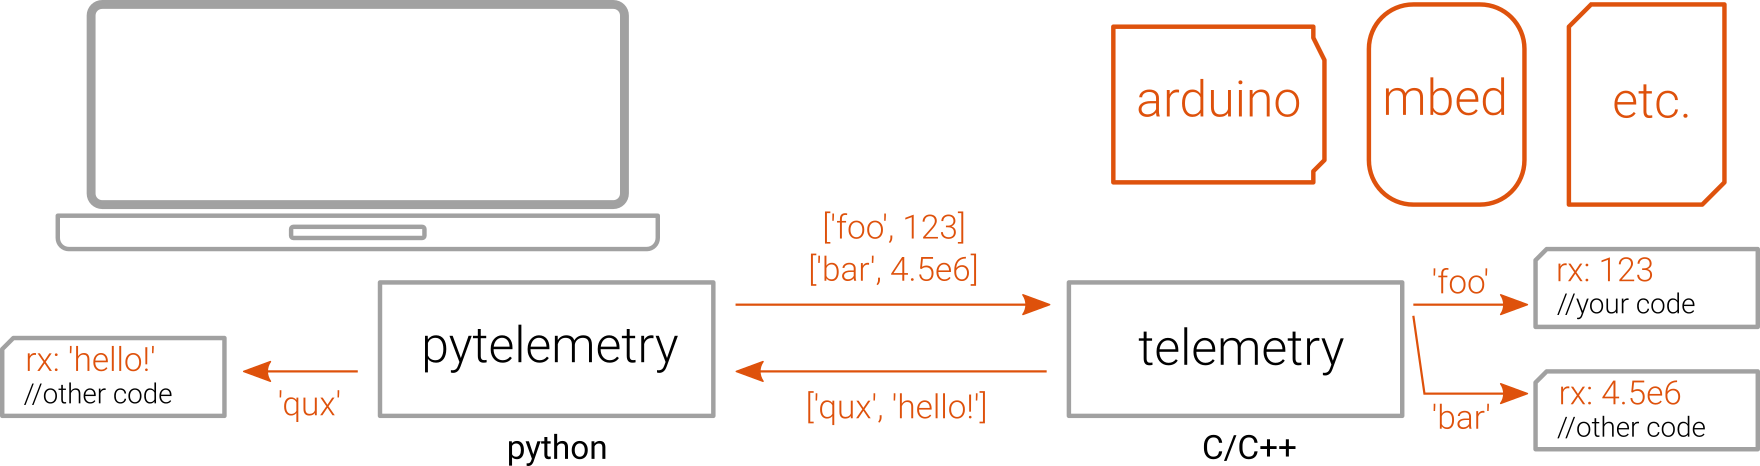
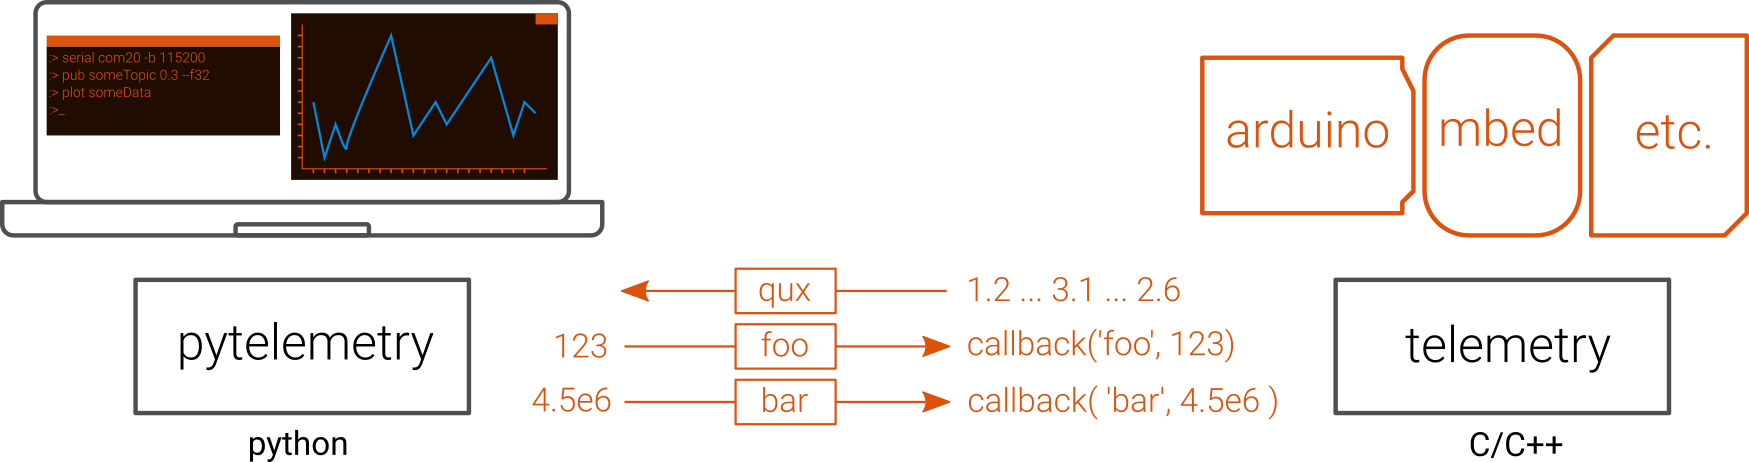
Release 1.0.3
Updated README.md
Updated version

diff --git a/version/telemetry_version.h b/version/telemetry_version.h
@@ -3,6 +3,6 @@
 
 #define TELEMETRY_VERSION_MAJOR 1
 #define TELEMETRY_VERSION_MINOR 0
-#define TELEMETRY_VERSION_PATCH 2
+#define TELEMETRY_VERSION_PATCH 3
 
 #endif

diff --git a/README.md b/README.md
@@ -1,25 +1,57 @@
+[![Join the chat at  https://gitter.im/Overdrivr/pytelemetry](https://badges.gitter.im/Overdrivr/pytelemetry.svg)](https://gitter.im/Overdrivr/pytelemetry?utm_source=badge&utm_medium=badge&utm_campaign=pr-badge&utm_content=badge)
 [![Stories in Ready](https://badge.waffle.io/Overdrivr/pytelemetrycli.svg?label=ready&title=Ready)](http://waffle.io/Overdrivr/pytelemetrycli)
 [![Twitter Follow](https://img.shields.io/twitter/follow/@remibgs.svg?style=social)](https://twitter.com/remibgs)
 ## Overview
-`Telemetry` provides effortless communication between a computer and an embedded device.
+`Telemetry` provides effortless communication and data visualization between a computer and an embedded device.
 
-Telemetry is a lightweight, portable, fast and error-resilient point-to-point protocol. It is implemented in C language with an equivalent in Python (Pytelemetry).
+Telemetry is a lightweight, portable, fast and error-resilient point-to-point protocol. It is implemented in C language and Python (`Pytelemetry`).
 
 ![Overview](https://raw.githubusercontent.com/Overdrivr/Telemetry/master/pubsub_overview.png)
 
 Data is exchanged on named channels, called *topics*. `foo`, `bar` and `qux` are all topics on the figure above.
 
-`Telemetry` lets you attach your own C function to a topic. Each time this specific topic is received, your C function will be called and you will receive the associated data as an input parameter.
+`Telemetry` lets you attach your own C function to be notified each time a new frame is received. A collection of functions in the library can then help you update program parameters, or execute specific code when a specific topic is received, etc.
 
-## Why using it ?
+## Motivation
 
-Telemetry is for you if :
+This tool was designed with five objectives in mind.
 
-* you are constantly re-writing custom protocols on top of the serial port
-* you need a **reliable** and **error-tolerant** communication protocol for an application
-* you are using `printf` to debug your embedded application (and looking for a better alternative)
-* you want to finely tune some parameter on the device without loosing time compiling & flashing over and over
-* you want to **plot** parameters of your embedded application in **real-time**
+* **Fast prototyping and debugging**. Set everything up in a few minutes and start debugging any embedded device efficiently. Forget about printf. Forever.
+* **Communication-based applications**. Stop re-writing custom protocols for each new project.
+* **Remote update of parameters**. Tune your embedded application without loosing time compiling & flashing just for parameter tuning.
+* **Data plotting**. Plot data from the device in no time. Standard linear data is supported, but also arrays, sparse arrays. In the future, also Matrices, XYZ, and RGB-type codes.
+* **Reusability**. The protocol is highly flexible, loosely coupled to your application. It can be used in a wide number of application scenarios.
+
+## Snippet - Arduino
+Send an incrementing value on topic `count` and update variable **throttle** when receiving a new float value on topic `throttle`. Reset counter when throttle value is updated.
+
+```c
+#include <Telemetry.h>
+
+Telemetry TM;
+TM_state state;
+int32_t i = 0;
+
+struct TM_state {
+  float throttle;
+}
+
+void refresh(TM_state * state, TM_msg * msg) {
+    // If received topic is throttle, put new float value in state->throttle
+    if(update_f32(msg,"throttle",&(state->throttle)))
+      i = 0;
+}
+
+void setup() {
+  TM.begin(9600);
+  TM.subscribe(refresh, &state);
+}
+
+void loop() {
+  TM.pub_i32("count",i++);
+  delay(50);
+}
+```
 
 ## Python implementation [![PyPI version](https://badge.fury.io/py/pytelemetry.svg)](https://badge.fury.io/py/pytelemetry)
 
@@ -29,15 +61,20 @@ It is highly suitable for remote control of robots, RC cars, etc.
 
 ## The Command Line Interface [![PyPI version](https://badge.fury.io/py/pytelemetrycli.svg)](https://badge.fury.io/py/pytelemetrycli)
 
-[`pytelemetrycli`](https://github.com/Overdrivr/pytelemetrycli) is an awesome command line interface that allows direct communication with the device.
+[`pytelemetrycli`](https://github.com/Overdrivr/pytelemetrycli) is an awesome command line interface that allows direct communication with the device and immediate data visualization.
 
 Directly in a terminal, with a few commands, you can :
 * list all received topics
 * print samples from a given topic
 * publish data on a topic
 * open high-performance graphs that plots data from the device in real-time
-* (*to be done*) full logging of a communication session
+* full logging of a communication session
 * (*to be done*) replay step-by-step of a session for deep analysis
 
-## Setup & Utilisation
-All the information is in the [Wiki](https://github.com/Overdrivr/Telemetry/wiki).
+## Documentation
+
+* [Overview of the library](https://github.com/Overdrivr/Telemetry/wiki/Overview)
+* [Protocol description](https://github.com/Overdrivr/Telemetry/wiki/Protocol-description)
+* [A non-exhaustive list of all the awesome features](https://github.com/Overdrivr/Telemetry/wiki/Awesome-features-overview)
+
+All the information can be found from the [Wiki Home](https://github.com/Overdrivr/Telemetry/wiki).
